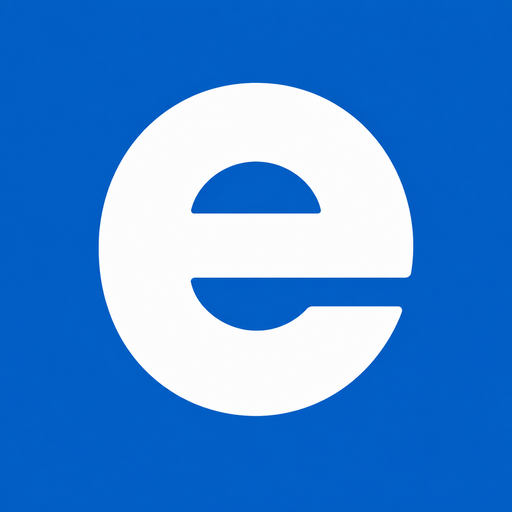
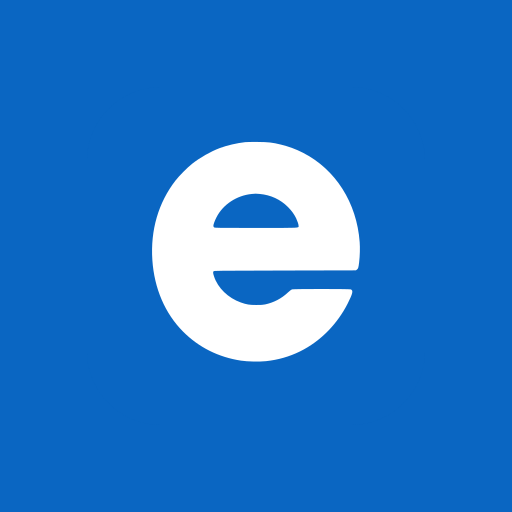
P2 polish: PWA install, dark-mode status colors, haptics, bfcache
PWA / install
- Generate a TRUE maskable icon (logo sits in the central safe zone on a full-bleed
  brand background) — was byte-identical to the standard icon, so Android cropped it.
- manifest theme_color -> #ffffff to match the rendered light chrome (was blue, which
  made the install splash/toolbar flash a white shell). Apple-touch-icon already ships.
- Add manifest shortcuts (Post / Saved / Messages) for long-press quick actions.

Dark-mode status colors
- Add --success/--warning/--info tokens (+ .dark variants reusing the trust ramp) and
  map them to Tailwind utilities; codemod raw emerald/amber (no dark variant) to
  text-success / bg-warning/15 etc. so status chips stay on-theme on dark cards.

Haptics
- haptic() helper (Vibration API, guarded on support + reduced-motion); fires on
  favorite-add, message-send (widget + thread), and listing publish.

bfcache
- chat-context drops the realtime WebSocket on pagehide and restores it on
  pageshow(persisted), so an open socket no longer blocks the back/forward cache —
  back-nav can restore instantly. (Notifications already poll, no socket.)

Skipped (honest): sticky sort row — a sticky sub-bar conflicts with the auto-hiding
header (would need to coordinate top-0 vs top-16 with header state); iOS splash
images — asset-heavy for low ROI.

Changed region(s): [[0.1875, 0.1562, 0.8125, 0.8125]]

diff --git a/src/components/admin/moderation-client.tsx b/src/components/admin/moderation-client.tsx
@@ -103,7 +103,7 @@ function ListingRow({ item, mode }: { item: ModItem; mode: 'pending' | 'reported
                 <div className="flex flex-wrap gap-1.5 pl-4">
                   <button onClick={() => run('confirm-report', r.id)} disabled={!!busy} className="rounded-md bg-red-600 px-2 py-0.5 text-[10px] font-bold text-white hover:bg-red-700 disabled:opacity-40 cursor-pointer">Confirm (−trust)</button>
                   <button onClick={() => run('dismiss-report', r.id)} disabled={!!busy} className="rounded-md border border-line-strong bg-card px-2 py-0.5 text-[10px] font-bold text-foreground hover:bg-muted disabled:opacity-40 cursor-pointer">Dismiss</button>
-                  <button onClick={() => run('abusive-report', r.id)} disabled={!!busy} className="rounded-md border border-amber-300 bg-card px-2 py-0.5 text-[10px] font-bold text-amber-700 hover:bg-amber-50 disabled:opacity-40 cursor-pointer">Abusive (penalize reporter)</button>
+                  <button onClick={() => run('abusive-report', r.id)} disabled={!!busy} className="rounded-md border border-warning/40 bg-card px-2 py-0.5 text-[10px] font-bold text-warning hover:bg-warning/10 disabled:opacity-40 cursor-pointer">Abusive (penalize reporter)</button>
                 </div>
               </div>
             ))}
@@ -172,7 +172,7 @@ function AccountReportRow({ r }: { r: AccountReport }) {
       <div className="mt-3 flex flex-wrap items-center gap-1.5">
         <button onClick={() => run('confirm-report')} disabled={busy} className="rounded-md bg-red-600 px-2 py-0.5 text-[10px] font-bold text-white hover:bg-red-700 disabled:opacity-40 cursor-pointer">Confirm (−trust)</button>
         <button onClick={() => run('dismiss-report')} disabled={busy} className="rounded-md border border-line-strong bg-card px-2 py-0.5 text-[10px] font-bold text-foreground hover:bg-muted disabled:opacity-40 cursor-pointer">Dismiss</button>
-        <button onClick={() => run('abusive-report')} disabled={busy} className="rounded-md border border-amber-300 bg-card px-2 py-0.5 text-[10px] font-bold text-amber-700 hover:bg-amber-50 disabled:opacity-40 cursor-pointer">Abusive (penalize reporter)</button>
+        <button onClick={() => run('abusive-report')} disabled={busy} className="rounded-md border border-warning/40 bg-card px-2 py-0.5 text-[10px] font-bold text-warning hover:bg-warning/10 disabled:opacity-40 cursor-pointer">Abusive (penalize reporter)</button>
         {busy && <Loader2 className="h-3.5 w-3.5 animate-spin text-muted-foreground" />}
         {error && <span className="text-xs font-semibold text-red-600">{error}</span>}
       </div>

diff --git a/src/app/messages/[id]/page.tsx b/src/app/messages/[id]/page.tsx
@@ -14,8 +14,9 @@ import { SignInPrompt } from '@/components/marketplace/account-actions'
 import { createSupabaseBrowser } from '@/lib/supabase/browser'
 import { ChevronLeft, Send, Phone, Loader2, Tag, RotateCcw } from 'lucide-react'
 import { toast } from 'sonner'
+import { haptic } from '@/lib/haptics'
 
-type Msg = { id: string; mine: boolean; body: string; createdAt: string; pending?: boolean; failed?: boolean; kind?: string; offerAmount?: number | null; offerStatus?: string | null }
+type Msg ={ id: string; mine: boolean; body: string; createdAt: string; pending?: boolean; failed?: boolean; kind?: string; offerAmount?: number | null; offerStatus?: string | null }
 type Thread = {
   id: string
   me: string // current user's profile id — to tell my messages from incoming
@@ -149,6 +150,7 @@ export default function ThreadPage() {
     const tempId = `temp-${Date.now()}`
     const optimistic: Msg = { id: tempId, mine: true, body, createdAt: new Date().toISOString(), pending: true }
     setText('')
+    haptic()
     setThread((t) => (t ? { ...t, messages: [...t.messages, optimistic] } : t))
     try {
       const res = await fetch(`/api/conversations/${id}/messages`, {
@@ -344,7 +346,7 @@ export default function ThreadPage() {
                       </div>
                     )}
                     {m.offerStatus && m.offerStatus !== 'pending' && (
-                      <div className={`mt-1 text-xs font-semibold ${m.offerStatus === 'accepted' ? 'text-emerald-600' : m.offerStatus === 'declined' ? 'text-red-500' : 'text-ink-4'}`}>
+                      <div className={`mt-1 text-xs font-semibold ${m.offerStatus === 'accepted' ? 'text-success' : m.offerStatus === 'declined' ? 'text-red-500' : 'text-ink-4'}`}>
                         {m.offerStatus === 'accepted' ? tr('Accepted', 'Đã chấp nhận') : m.offerStatus === 'declined' ? tr('Declined', 'Đã từ chối') : tr('Countered', 'Đã trả giá khác')}
                       </div>
                     )}

diff --git a/src/context/chat-context.tsx b/src/context/chat-context.tsx
@@ -170,7 +170,8 @@ export function ChatProvider({ children }: { children: React.ReactNode }) {
     let debounce: ReturnType<typeof setTimeout> | null = null
     let channel: ReturnType<typeof supabase.channel> | null = null
     const bump = () => { if (debounce) return; debounce = setTimeout(() => { debounce = null; refreshUnread(); refreshConvos() }, 300) }
-    ;(async () => {
+    const subscribe = async () => {
+      if (channel) return
       const { data } = await supabase.auth.getSession()
       if (cancelled || !data.session) return
       await supabase.realtime.setAuth(data.session.access_token)
@@ -183,11 +184,23 @@ export function ChatProvider({ children }: { children: React.ReactNode }) {
           bump()
         })
         .subscribe()
-    })()
+    }
+    const unsubscribe = () => { if (channel) { supabase.removeChannel(channel); channel = null } }
+    // An open WebSocket makes a page ineligible for the back/forward cache, so the
+    // back button re-mounts everything instead of restoring instantly. Drop the
+    // socket as the page enters bfcache (pagehide) and restore it on return.
+    const onPageHide = () => { unsubscribe(); supabase.realtime.disconnect() }
+    const onPageShow = (e: PageTransitionEvent) => { if (e.persisted) { refreshUnread(); refreshConvos(); subscribe() } }
+
+    subscribe()
+    window.addEventListener('pagehide', onPageHide)
+    window.addEventListener('pageshow', onPageShow)
     return () => {
       cancelled = true
       if (debounce) clearTimeout(debounce)
-      if (channel) supabase.removeChannel(channel)
+      unsubscribe()
+      window.removeEventListener('pagehide', onPageHide)
+      window.removeEventListener('pageshow', onPageShow)
     }
   }, [user, refreshUnread, refreshConvos])
 

diff --git a/src/components/marketplace/post-wizard.tsx b/src/components/marketplace/post-wizard.tsx
@@ -7,6 +7,7 @@ import { toast } from 'sonner'
 import type { SerializedCategory } from '@/lib/types'
 import { CategoryIcon } from './category-icons'
 import { cn } from '@/lib/utils'
+import { haptic } from '@/lib/haptics'
 import { useLanguage } from '@/context/language-context'
 import { containsPhoneNumber } from '@/lib/phone'
 import { trackPostListing } from '@/lib/analytics'
@@ -452,6 +453,7 @@ export function PostWizard({ categories, embedded = false, onPosted, edit }: { c
       const created = (await res.json().catch(() => ({}))) as { id?: string }
       trackPostListing({ id: created.id, title: title.trim(), price: Number(price), currency: 'VND', category: cat?.name || categorySlug, district: district || undefined })
       try { localStorage.removeItem('eno-listing-draft') } catch {}
+      haptic(18)
       setSubmitted(true)
       onPosted?.() // embedded in dashboard → refresh listings + switch tab
     } catch (e) {
@@ -827,7 +829,7 @@ export function PostWizard({ categories, embedded = false, onPosted, edit }: { c
               <ul className="space-y-1.5 pt-1">
                 {checks.map((c) => (
                   <li key={c.key} className={cn('flex items-center gap-2 text-xs', c.ok ? 'text-ink-4 line-through' : 'text-body')}>
-                    <span className={cn('flex h-4 w-4 items-center justify-center rounded-full', c.ok ? 'text-emerald-600' : 'text-ink-4')}>
+                    <span className={cn('flex h-4 w-4 items-center justify-center rounded-full', c.ok ? 'text-success' : 'text-ink-4')}>
                       {c.ok ? <Check className="h-3.5 w-3.5" /> : <span className="h-1.5 w-1.5 rounded-full bg-current" />}
                     </span>
                     {c.label}

diff --git a/src/components/marketplace/chat-widget.tsx b/src/components/marketplace/chat-widget.tsx
@@ -5,6 +5,7 @@ import Link from 'next/link'
 import { MessageSquare, ChevronLeft, ChevronRight, X, Send, Loader2, Phone, Trash2, Tag, RotateCcw } from 'lucide-react'
 import { toast } from 'sonner'
 import { cn } from '@/lib/utils'
+import { haptic } from '@/lib/haptics'
 import { useAuth } from '@/context/auth-context'
 import { useLanguage } from '@/context/language-context'
 import { useChat } from '@/context/chat-context'
@@ -335,6 +336,7 @@ function ChatThread({ id, onBack, onClose, onSent }: { id: string; onBack: () =>
     const tempId = `temp-${Date.now()}`
     const optimistic: Msg = { id: tempId, mine: true, body, createdAt: new Date().toISOString(), pending: true }
     setText('')
+    haptic()
     setThread((t) => (t ? { ...t, messages: [...t.messages, optimistic] } : t))
     try {
       const res = await fetch(`/api/conversations/${id}/messages`, {
@@ -497,7 +499,7 @@ function ChatThread({ id, onBack, onClose, onSent }: { id: string; onBack: () =>
                   </div>
                 )}
                 {m.offerStatus && m.offerStatus !== 'pending' && (
-                  <div className={`mt-1 text-xs font-semibold ${m.offerStatus === 'accepted' ? 'text-emerald-600' : m.offerStatus === 'declined' ? 'text-red-500' : 'text-ink-4'}`}>
+                  <div className={`mt-1 text-xs font-semibold ${m.offerStatus === 'accepted' ? 'text-success' : m.offerStatus === 'declined' ? 'text-red-500' : 'text-ink-4'}`}>
                     {m.offerStatus === 'accepted' ? tr('Accepted', 'Đã chấp nhận') : m.offerStatus === 'declined' ? tr('Declined', 'Đã từ chối') : tr('Countered', 'Đã trả giá khác')}
                   </div>
                 )}

diff --git a/src/app/globals.css b/src/app/globals.css
@@ -50,6 +50,11 @@
   --color-brand-light: var(--brand-light);
   --color-brand-50: var(--brand-50);
   --color-brand-100: var(--brand-100);
+  /* Semantic status colors — flip lighter on dark so success/warning/info chips
+     stay on-theme instead of using raw emerald/amber (which have no dark variant). */
+  --color-success: var(--success);
+  --color-warning: var(--warning);
+  --color-info: var(--info);
   --color-ink: var(--ink);
   --color-ink-2: var(--ink-2);
   --color-ink-3: var(--ink-3);
@@ -127,6 +132,11 @@
   --trust-trusted:    #15803d; /* green-700  ~5.0:1 — good (the healthy default) */
   --trust-exceptional:#0a66c2; /* brand blue ~5.7:1 — great (sits next to green) */
   --trust-elite:      #7c3aed; /* violet-600 ~5.7:1 — royal (top) */
+
+  /* Semantic status (light): AA on white/tint cards. */
+  --success: #15803d; /* green-700  */
+  --warning: #b45309; /* amber-700  */
+  --info:    #0a66c2; /* brand blue */
 
   /* Semantic — used ONLY to carry meaning, never decoration.
      verified/trust folds into the brand blue; amber = caution; red = destructive. */
@@ -219,6 +229,11 @@
   --trust-trusted:    #4ade80; /* green-400   — good */
   --trust-exceptional:#60a5fa; /* blue-400    — great (brand blue, lightened) */
   --trust-elite:      #a78bfa; /* violet-400  — royal */
+
+  /* Semantic status (dark): lightened so they read on dark cards. */
+  --success: #4ade80; /* green-400 */
+  --warning: #fbbf24; /* amber-400 */
+  --info:    #60a5fa; /* blue-400  */
   --skeleton: #262c37;
   --skeleton-sheen: rgba(255, 255, 255, 0.06);
 

diff --git a/src/app/sellers/[id]/page.tsx b/src/app/sellers/[id]/page.tsx
@@ -80,7 +80,7 @@ export default async function SellerPage({ params }: Props) {
             <div className="flex flex-wrap items-center gap-2">
               <h1 className="h-title text-foreground">{seller.name}</h1>
               {seller.ownerId && (
-                <span className="inline-flex items-center gap-1 text-xs font-semibold text-emerald-600">
+                <span className="inline-flex items-center gap-1 text-xs font-semibold text-success">
                   <BadgeCheck className="h-4 w-4" /> <Tr text="Active account" />
                 </span>
               )}
@@ -120,7 +120,7 @@ export default async function SellerPage({ params }: Props) {
                       {r.author.split(' ').map((w) => w[0]).join('').toUpperCase()}
                     </span>
                     <span className="text-sm font-semibold text-foreground">{r.author}</span>
-                    <span className="ml-auto inline-flex items-center gap-1 text-[11px] font-semibold text-emerald-600"><BadgeCheck className="h-3.5 w-3.5" /> <Tr text="Verified buyer" /></span>
+                    <span className="ml-auto inline-flex items-center gap-1 text-[11px] font-semibold text-success"><BadgeCheck className="h-3.5 w-3.5" /> <Tr text="Verified buyer" /></span>
                   </div>
                   <p className="mt-2 text-sm leading-relaxed text-body"><Tr text={r.text} /></p>
                 </div>

diff --git a/src/app/manifest.ts b/src/app/manifest.ts
@@ -17,13 +17,22 @@ export default function manifest(): MetadataRoute.Manifest {
     display: 'standalone',
     orientation: 'portrait',
     background_color: '#ffffff',
-    theme_color: '#0a66c2',
+    // Match the rendered light-mode chrome (<meta theme-color> is #ffffff). A manifest
+    // theme_color can't media-match, so the blue value made the install splash/toolbar
+    // jump to a white shell — pick the light value.
+    theme_color: '#ffffff',
     lang: 'en',
     categories: ['shopping', 'business', 'lifestyle'],
     icons: [
       { src: '/icon-192.png', sizes: '192x192', type: 'image/png', purpose: 'any' },
       { src: '/icon-512.png', sizes: '512x512', type: 'image/png', purpose: 'any' },
       { src: '/icon-maskable-512.png', sizes: '512x512', type: 'image/png', purpose: 'maskable' },
+    ],
+    // Long-press quick actions on the installed icon (Android/desktop).
+    shortcuts: [
+      { name: 'Post a listing', short_name: 'Post', url: '/post', icons: [{ src: '/icon-192.png', sizes: '192x192', type: 'image/png' }] },
+      { name: 'Saved', short_name: 'Saved', url: '/saved', icons: [{ src: '/icon-192.png', sizes: '192x192', type: 'image/png' }] },
+      { name: 'Messages', short_name: 'Messages', url: '/messages', icons: [{ src: '/icon-192.png', sizes: '192x192', type: 'image/png' }] },
     ],
   }
 }

diff --git a/src/components/marketplace/change-email-form.tsx b/src/components/marketplace/change-email-form.tsx
@@ -45,7 +45,7 @@ export function ChangeEmailForm({ currentEmail }: { currentEmail: string | null 
       <p className="truncate text-sm font-semibold text-foreground">{currentEmail || tr('No email on file', 'Chưa có email')}</p>
 
       {sent ? (
-        <p className="text-xs font-semibold text-emerald-600">{tr('Check your new inbox and click the link to confirm the change.', 'Kiểm tra hộp thư mới và nhấn liên kết để xác nhận thay đổi.')}</p>
+        <p className="text-xs font-semibold text-success">{tr('Check your new inbox and click the link to confirm the change.', 'Kiểm tra hộp thư mới và nhấn liên kết để xác nhận thay đổi.')}</p>
       ) : !editing ? (
         <button onClick={() => { setEmail(''); setErr(''); setEditing(true) }} className="text-xs font-bold text-accent-foreground hover:underline cursor-pointer">
           {tr('Change email', 'Đổi email')}

diff --git a/src/context/favorites-context.tsx b/src/context/favorites-context.tsx
@@ -5,6 +5,7 @@ import { useRouter } from 'next/navigation'
 import { toast } from 'sonner'
 import type { SerializedListing } from '@/lib/types'
 import { useLanguage } from '@/context/language-context'
+import { haptic } from '@/lib/haptics'
 
 const KEY = 'eno:favorites'
 const SAVED_KEY = 'eno-saved-cache' // { idKey, list } — device-local functional cache
@@ -52,6 +53,7 @@ export function FavoritesProvider({ children }: { children: React.ReactNode }) {
     // confirm on ADD only, with a jump to /saved. A shared toast id means rapid
     // hearting replaces rather than stacks.
     if (added) {
+      haptic()
       toast(tr('Saved on this device', 'Đã lưu trên thiết bị này'), {
         id: 'fav-saved',
         action: { label: tr('View', 'Xem'), onClick: () => router.push('/saved') },

diff --git a/src/components/admin/feedback-client.tsx b/src/components/admin/feedback-client.tsx
@@ -75,7 +75,7 @@ export function FeedbackClient({ items: initial }: { items: FeedbackItem[] }) {
                   <span
                     className={
                       'inline-flex shrink-0 items-center gap-1.5 rounded-full px-2.5 py-1 text-[11px] font-bold ' +
-                      (technical ? 'bg-amber-100 text-amber-800' : 'bg-brand-50 text-brand')
+                      (technical ? 'bg-warning/15 text-warning' : 'bg-brand-50 text-brand')
                     }
                   >
                     {technical ? <Wrench className="h-3.5 w-3.5" /> : <MessageSquareText className="h-3.5 w-3.5" />}

diff --git a/src/app/trust/page.tsx b/src/app/trust/page.tsx
@@ -32,7 +32,7 @@ function Points({ rows }: { rows: [string, number, string][] }) {
             <div className="text-sm text-foreground"><Tr text={action} /></div>
             {sub && <div className="text-xs text-ink-4"><Tr text={sub} /></div>}
           </div>
-          <span className={`shrink-0 text-sm font-bold tabular-nums ${pts > 0 ? 'text-emerald-600' : 'text-red-500'}`}>{pts > 0 ? `+${pts}` : pts}</span>
+          <span className={`shrink-0 text-sm font-bold tabular-nums ${pts > 0 ? 'text-success' : 'text-red-500'}`}>{pts > 0 ? `+${pts}` : pts}</span>
         </div>
       ))}
     </div>
